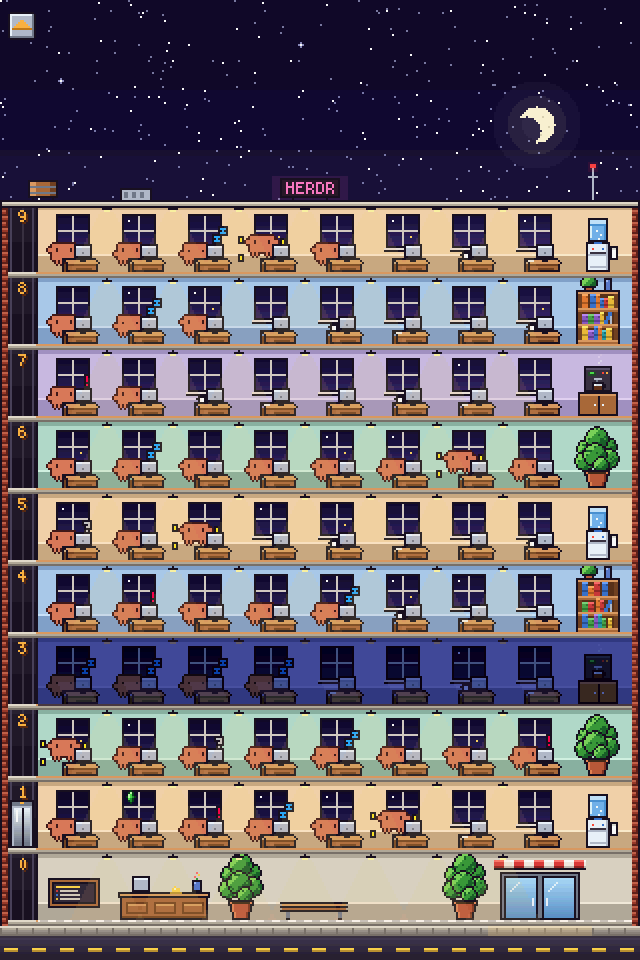
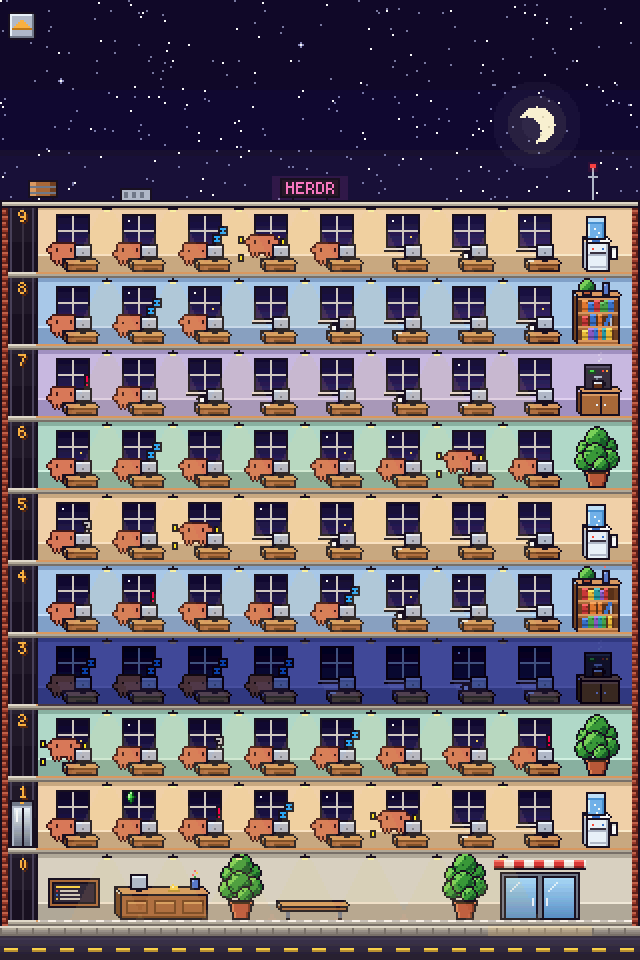
Draw herdr-panel's furniture in oblique projection
The reception counter, the bench, the bookshelf and the cabinets of the
water cooler and coffee machine are now drawn like the desks: a top
receding to the upper left and a left side showing. Every side face's
bottom edge now recedes as its top does, the desks' included.

diff --git a/herdr-panel/art-tools/demo.py b/herdr-panel/art-tools/demo.py
@@ -362,13 +362,14 @@ BOOKS = [h(0xC83838), h(0x3870C8), h(0xE8B838), h(0x48A048), h(0x8858C0), h(0xE0
 
 
 def bookshelf(img, x, floor):
-    w, hh = 22, 27
+    w, hh, depth = 22, 24, 2
     t = floor - hh
+    oblique(img, x, t, w, hh, depth, WOOD)
     img.box(x, t, w, hh, h(0x583018), INK)
     img.fill(x + 1, t + 1, 2, hh - 2, WOOD["dark"])
     img.fill(x + w - 3, t + 1, 2, hh - 2, WOOD["dark"])
     img.fill(x + 1, t + 1, w - 2, 1, WOOD["light"])
-    shelves = [t + 9, t + 17, floor - 2]
+    shelves = [t + 8, t + 15, floor - 2]
     for sy in shelves:
         img.fill(x + 1, sy, w - 2, 1, WOOD["light"])
         img.fill(x + 1, sy + 1, w - 2, 1, WOOD["base"])
@@ -377,7 +378,7 @@ def bookshelf(img, x, floor):
         end = x + w - 3 - (4 if n == 1 else 0)
         while bx < end - 1:
             bw = 2 + hsh(bx, n) % 2
-            bh = 5 + hsh(n, bx) % 3
+            bh = 5 + hsh(n, bx) % 2
             if bx + bw > end:
                 break
             c = BOOKS[hsh(bx * 3, sy) % len(BOOKS)]
@@ -392,30 +393,32 @@ def bookshelf(img, x, floor):
             for k in range(6):
                 img.fill(end - 1 + k // 2, sy - 1 - k, 2, 1, BOOKS[1])
             img.fill(end + 2, sy - 4, 1, 4, METAL["base"])
-    # On top: a small plant and a vase.
-    blob(img, x + 6, t - 4, 3, LEAF)
-    img.box(x + 4, t - 2, 5, 3, POT["base"], INK)
-    img.box(x + 14, t - 6, 4, 7, h(0x5878C8), INK)
-    img.set(x + 15, t - 5, h(0xA0B8F0))
-    img.set(x + 15, t - 8, h(0xF87068))
-    img.set(x + 16, t - 9, h(0xF8D048))
+    # On top, standing on the middle of its depth: a small plant and a vase.
+    ox, oy = x - 1, t - 1
+    blob(img, ox + 6, oy - 4, 3, LEAF)
+    img.box(ox + 4, oy - 2, 5, 3, POT["base"], INK)
+    img.box(ox + 14, oy - 6, 4, 7, h(0x5878C8), INK)
+    img.set(ox + 15, oy - 5, h(0xA0B8F0))
+    img.set(ox + 15, oy - 8, h(0xF87068))
+    img.set(ox + 16, oy - 9, h(0xF8D048))
 
 
 def water_cooler(img, x, floor):
     # Cabinet with hot and cold taps and a drip tray.
-    cx0, cw, ch = x + 5, 12, 15
+    cx0, cw, ch, depth = x + 5, 12, 15, 2
     ct = floor - ch
-    img.box(cx0, ct, cw, ch, METAL["light"], INK)
+    oblique(img, cx0, ct, cw, ch, depth, {"light": h(0xFFFFFF), "base": METAL["light"], "dark": METAL["base"]})
     img.fill(cx0 + cw - 2, ct + 1, 1, ch - 2, METAL["base"])
     img.fill(cx0 + 1, ct + 6, cw - 2, 1, METAL["base"])
     img.set(cx0 + 3, ct + 3, h(0xF84838))
     img.set(cx0 + 8, ct + 3, h(0x3870C8))
     img.fill(cx0 + 2, ct + 5, cw - 4, 1, h(0x383040))
     img.fill(cx0 + 2, floor - 3, cw - 4, 1, METAL["base"])
-    # The bottle, upside down: neck into the cabinet, water nearly full.
-    bx, bw, bh = cx0 + 1, 10, 12
-    bt = ct - bh
-    img.fill(bx + 3, ct - 1, 4, 2, h(0x3870C8))
+    # The bottle, upside down, on the middle of the cabinet's top: neck
+    # into it, water nearly full.
+    bx, bw, bh = cx0, 10, 12
+    bt = ct - 1 - bh
+    img.fill(bx + 3, ct - 2, 4, 2, h(0x3870C8))
     img.box(bx, bt, bw, bh, h(0x70B0E8), INK)
     img.fill(bx + 1, bt + 1, bw - 2, 2, h(0xC0E0F8))
     img.fill(bx + 1, bt + 3, bw - 2, 1, h(0x4890D0))
@@ -430,13 +433,14 @@ def water_cooler(img, x, floor):
 
 def coffee_machine(img, x, floor):
     # Cabinet with two doors.
-    img.box(x + 1, floor - 12, 20, 12, WOOD["base"], INK)
-    img.fill(x + 2, floor - 11, 18, 1, WOOD["light"])
-    img.fill(x + 11, floor - 10, 1, 9, INK)
-    img.set(x + 9, floor - 6, METAL["light"])
-    img.set(x + 13, floor - 6, METAL["light"])
-    # The machine: dark body, display, buttons, a carafe of coffee.
-    mx, mt = x + 4, floor - 25
+    oblique(img, x + 2, floor - 12, 20, 12, 2, WOOD)
+    img.fill(x + 3, floor - 11, 18, 1, WOOD["light"])
+    img.fill(x + 12, floor - 10, 1, 9, INK)
+    img.set(x + 10, floor - 6, METAL["light"])
+    img.set(x + 14, floor - 6, METAL["light"])
+    # The machine, on the middle of the cabinet's top: dark body, display,
+    # buttons, a carafe of coffee.
+    mx, mt = x + 4, floor - 26
     img.box(mx, mt, 14, 13, h(0x383040), INK)
     img.fill(mx + 1, mt + 1, 12, 1, h(0x585068))
     img.fill(mx + 2, mt + 3, 4, 2, h(0x204828))
@@ -542,6 +546,25 @@ def sign(img, x, y, rows, c):
         img.set(px, py, c)
 
 
+def oblique(img, x, y, w, hh, depth, r):
+    """A solid box in oblique projection, as the desks are drawn: its front
+    face `w` x `hh` at (`x`, `y`) in `r["base"]`, its top a strip `depth` rows
+    deep in `r["light"]` and its left side in `r["dark"]`, both receding to the
+    upper left, one pixel left per row: the side's bottom edge rises as it
+    goes back, as its top does."""
+    bottom = y + hh
+    for k in range(depth):
+        x0 = x - k
+        img.fill(x0 + 1, y - 1 - k, w - 1, 1, r["light"])
+        img.set(x0, y - 1 - k, INK)
+        img.set(x0 + w, y - 1 - k, INK)
+    img.fill(x - depth, y - depth - 1, w + 1, 1, INK)
+    for k in range(1, depth + 1):
+        img.fill(x - k, y - k + 1, 1, bottom - y - 2, r["dark"])
+        img.set(x - k, bottom - 1 - k, INK)
+    img.fill(x - depth, y - depth, 1, bottom - y, INK)
+    img.box(x, y, w, hh, r["base"], INK)
+
 def desk(img, cx, top, lit, i, occupied):
     """A workstation in front of the agent's right half: a solid desk in
     oblique projection, receding to the upper left, so its top shows as a
@@ -556,19 +579,7 @@ def desk(img, cx, top, lit, i, occupied):
     # Back on the desk: one pixel left per row of the top's depth.
     mx = cx + 3 - depth
     base = front - depth
-    # Top surface: each row further back sits one pixel further left.
-    for k in range(depth):
-        y = front - 1 - k
-        x0 = dx0 - k
-        img.fill(x0 + 1, y, dw - 1, 1, WOOD["light"])
-        img.set(x0, y, INK)
-        img.set(x0 + dw, y, INK)
-    img.fill(dx0 - depth, front - depth - 1, dw + 1, 1, INK)
-    # Left side face, then the front panel down to the floor.
-    for k in range(1, depth + 1):
-        img.fill(dx0 - k, front - k + 1, 1, floor - front + k - 1, WOOD["dark"])
-    img.fill(dx0 - depth, front - depth, 1, floor - front + depth, INK)
-    img.box(dx0, front, dw, floor - front, WOOD["base"], INK)
+    oblique(img, dx0, front, dw, floor - front, depth, WOOD)
     img.fill(dx0 + 1, front, dw - 2, 1, WOOD["dark"])
     img.fill(dx0 + 5, front + 2, 8, 1, WOOD["dark"])
     # Monitor on a short stand standing on the back row of the top.
@@ -668,12 +679,13 @@ def lobby(img, number=True):
     # Reception: a counter with panels, a bell, a screen and a vase.
     rx, rw, rh = 60, 44, 13
     rt = floor - rh
-    img.box(rx - 1, rt - 1, rw + 2, 3, WOOD["light"], INK)
-    img.box(rx, rt + 1, rw, rh - 1, WOOD["base"], INK)
+    oblique(img, rx, rt, rw, rh, 3, WOOD)
     for k in range(3):
-        img.box(rx + 3 + k * 14, rt + 4, 11, rh - 7, WOOD["base"], WOOD["dark"])
-        img.fill(rx + 4 + k * 14, rt + 5, 9, 1, WOOD["light"])
+        img.box(rx + 3 + k * 14, rt + 3, 11, rh - 6, WOOD["base"], WOOD["dark"])
+        img.fill(rx + 4 + k * 14, rt + 4, 9, 1, WOOD["light"])
     img.fill(rx + 1, floor - 2, rw - 2, 1, WOOD["dark"])
+    # On the counter's top, a row back: a screen, a bell and a vase.
+    rx, rt = rx - 1, rt - 1
     img.box(rx + 6, rt - 9, 9, 8, METAL["base"], INK)
     img.fill(rx + 7, rt - 8, 7, 1, METAL["light"])
     img.fill(rx + 9, rt - 1, 3, 1, INK)
@@ -691,10 +703,7 @@ def lobby(img, number=True):
     plant(img, 232, floor, 1.15)
     # A bench with slats on metal legs.
     bx0, bw = 140, 34
-    for k in range(2):
-        img.fill(bx0, floor - 9 + k * 2, bw, 1, INK)
-        img.fill(bx0 + 1, floor - 8 + k * 2, bw - 2, 1, WOOD["light"] if k == 0 else WOOD["base"])
-    img.fill(bx0, floor - 5, bw, 1, INK)
+    oblique(img, bx0, floor - 7, bw, 3, 2, WOOD)
     for lx in (bx0 + 3, bx0 + bw - 5):
         img.fill(lx, floor - 4, 2, 4, METAL["dark"])
         img.fill(lx, floor - 1, 2, 1, INK)
